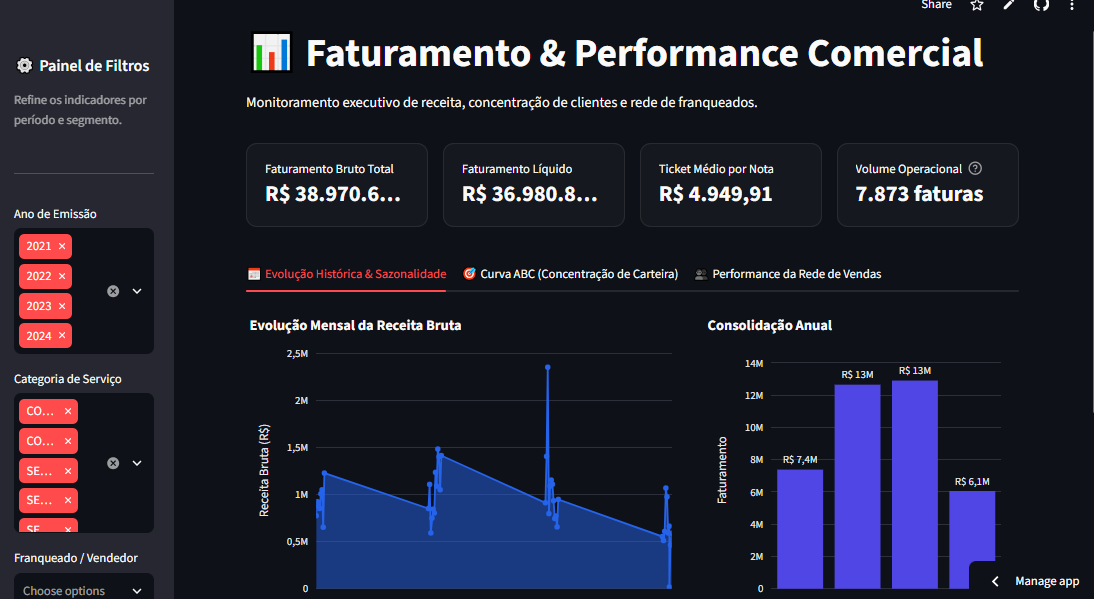
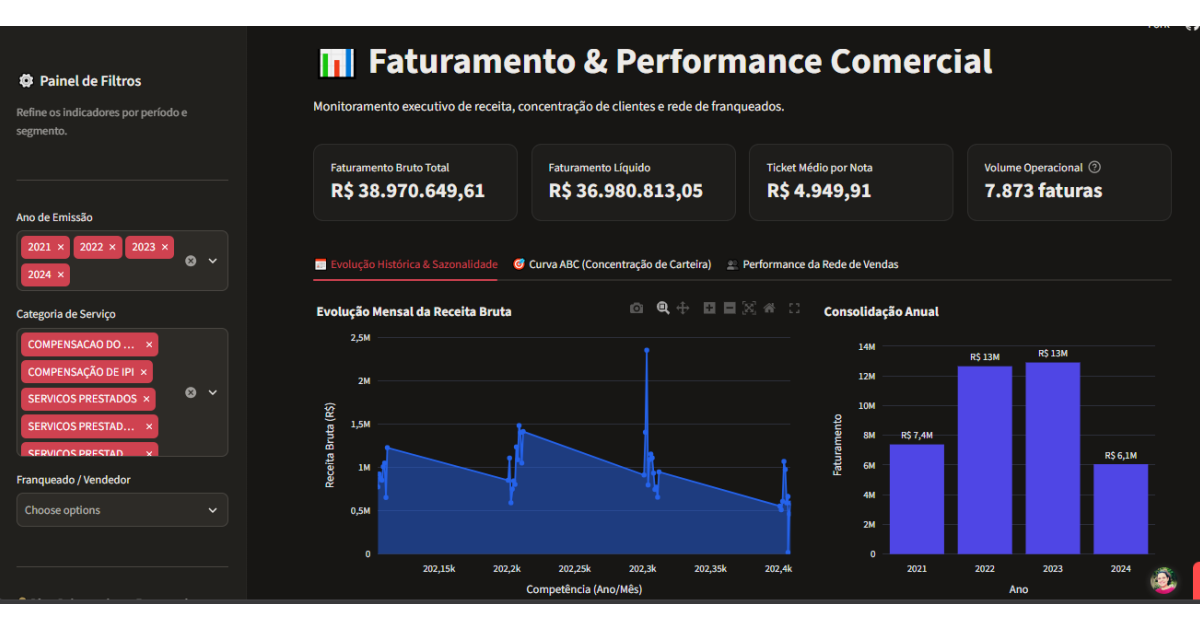
atualizando portfolio

diff --git a/script.js b/script.js
@@ -1,37 +1,38 @@
 /* EDITE AQUI: troque links, textos, tecnologias e imagens dos projetos. */
 const projects = [
   {
-    title: "Sem Papas — Web Chat com Grupos & Salas Temporárias",
-    category: "produtividade",
-    filtros: ["Dev Full Stack", "NoSQL Database"],
-    url: "https://sem-papas.web.app/",
+    title: "Redirecionador e Encurtador de Links & Event-Driven Data Lake",
+    category: "infraestrutura",
+    filtros: ["Dev Full Stack", "Engenharia de Dados", "NoSQL Database"],
+    url: "https://redirecionador-fdet.onrender.com?utm_source=portfolio&utm_medium=pagina-web",
     description: [
-      "• Chat temporário em grupo acessado via QR Code ou link direto, com capacidade para até 25 participantes, sem necessidade de login e sem armazenamento em histórico.",
-      "• Criação de salas privadas permanentes com até 6 participantes. Mensagens ficam salvas por seis meses no banco de dados. É necessário estar logado.",
-      "• Autenticação com Google e E-mail/Senha e regras de segurança no Cloud Firestore.",
-      "• Exclusão de contas inativas há mais de 30 dias, executada via GitHub Actions.",
+      "Microserviço backend em TypeScript e Node.js/Express para redirecionamento inteligente de links com injeção dinâmica de metadados Open Graph (1200x630px) para robôs do LinkedIn e WhatsApp.",
+      "Arquitetura de Ingestão de Dados Orientada a Eventos: separação automática entre tráfego humano e crawlers, capturando parâmetros UTM, IP, Referer e User-Agent sem impacto na latência do usuário (non-blocking I/O).",
+      "Data Lake Serverless: envio assíncrono dos eventos em tempo real para o Supabase Storage estruturado com particionamento temporal Hive Partitioning (raw/ano=YYYY/mes=MM/dia=DD/).",
+      "DevOps & FinOps: hospedagem no Render.com integrada a robô keep-alive no cron-job.org para disponibilidade 24/7 sem custos de infraestrutura.",
     ],
     tech: [
-      "Firebase",
-      "React 19",
       "TypeScript",
-      "Tailwind CSS",
-      "Google Cloud Platform",
-      "Github Actions",
-      "QrCode",
-      "Vercel",
+      "Node.js",
+      "Express.js",
+      "Supabase Storage",
+      "Data Lake (Hive Partitioning)",
+      "render.com",
+      "cron-job.org",
     ],
-    image: "img/sem-papas.jpeg",
-    theme: "project-sun",
+    image: "img/redirecionador.png",
+    theme: "project-coral",
   },
   {
-    title: "Kambão — Kanban Colaborativo com envio de arquivos",
+    title: "GarimpaTrip — Inteligência Turística & Agregador de Viagens",
     category: "produtividade",
-    filtros: ["Dev Full Stack"],
-    url: "https://kambao.vercel.app/",
+    filtros: ["Dev Full Stack", "Engenharia de Dados"],
+    url: "https://redirecionador-fdet.onrender.com/garimpatrip?utm_source=site-portfolio&utm_medium=pagina-web",
     description: [
-      "Sistema de gestão de projetos e tarefas estilo Kanban focado em colaboração de equipes. Construído com Next.js 16 App Router e arquitetura de dados relacional no Supabase.",
-      "Kanban privado com login, grupos de até 4 participantes, convites, CRUD de tarefas, upload/download de anexos (com validação de tamanho/quantidade) e políticas RLS no banco. ",
+      "Plataforma responsiva desenvolvida com Next.js 16 (App Router), TypeScript e React 19, utilizando Server Components (SEO) e Client Components reativos.",
+      "Arquitetura BFF via Route Handlers (/api/*) para consumo assíncrono paralelo de 8+ APIs externas (voos, câmbio, clima) com controle de concorrência e middleware na borda (proxy.ts).",
+      "Banco relacional Supabase (PostgreSQL 15 com JSONB) com regras de Row Level Security (RLS), Stored Procedures (RPCs) e autenticação Google OAuth 2.0.",
+      "Pipeline de dados em Python/DuckDB orquestrado via GitHub Actions para processamento de séries temporais e carga no Google BigQuery.",
     ],
     tech: [
       "Next.js 16",
@@ -39,72 +40,135 @@ const projects = [
       "TypeScript",
       "Tailwind CSS",
       "Supabase (PostgreSQL)",
+      "Python",
+      "DuckDB",
+      "Google BigQuery",
+      "Github Actions",
       "Vercel",
     ],
-    image: "img/kambao.jpeg",
-    theme: "project-coral",
+    image: "img/garimpatrip.png",
+    theme: "project-sun",
+  },
+
+  {
+    title: "Sem Papas — Web Chat Realtime & Salas Efêmeras",
+    category: "produtividade",
+    filtros: ["Dev Full Stack", "NoSQL Database"],
+    url: "https://redirecionador-fdet.onrender.com/sem-papas?utm_source=site-portfolio&utm_medium=pagina-web",
+    description: [
+      "App de mensageria instantânea com React 19, TypeScript e Firebase Cloud Firestore NoSQL, com ouvintes bidirecionais em tempo real (onSnapshot).",
+      "Salas temporárias efêmeras (duração de 3h e até 25 usuários) via QR Code sem necessidade de login, e salas privadas permanentes com autenticação.",
+      "Segurança defensiva via Firebase Auth (verificação obrigatória de e-mail) e regras de permissão granulares no Firestore (Security Rules).",
+      "Automação serverless agendada via GitHub Actions + Node.js Admin SDK para expurgo e retenção efêmera de dados a custo zero.",
+    ],
+    tech: [
+      "React 19",
+      "TypeScript",
+      "Firebase (Firestore & Auth)",
+      "Tailwind CSS",
+      "Google Cloud Platform",
+      "Github Actions",
+      "QrCode",
+    ],
+    image: "img/sem-papas.png",
+    theme: "project-mint",
   },
   {
-    title: "Scrumbão — Gestão Ágil Didática & Scrum Master",
+    title: "Scrumbão — Gestão Ágil Scrum & Multi-Tenant",
     category: "Gestão de Projetos",
     filtros: ["Dev Full Stack", "Gestão de Projetos"],
-    url: "https://scrumbao.vercel.app/",
+    url: "https://redirecionador-fdet.onrender.com/scrumbao?utm_source=site-portfolio&utm_medium=pagina-web",
     description: [
-      "Live Demo Pedagógico de Scrum-Master com guia e demonstrativo interativo salvo em memória local sem necessidade de cadastro.",
-      "Criação de Scrums privados salvos na nuvem e convite seguro por e-mail e link direto para até 6 participantes.",
-      "Automação Serverless: Cron job diário via GitHub Actions para remoção automática de dados inativos.",
+      "Aplicação Full-Stack reativa (React 19 SPA, TypeScript, Vite) para governança e treinamento prático em metodologia Scrum/Kanban.",
+      "Demonstração pública interativa em memória local (sem cadastro) e workspaces privados com convites seguros por e-mail e link direto.",
+      "Banco de dados Supabase (PostgreSQL 15) com Row Level Security (RLS) para isolamento multi-tenant e Stored Procedures (RPCs) para validação de cotas.",
+      "Esteira DevOps com GitHub Actions (Cron Jobs) executando rotinas SQL diárias em nuvem para remoção de contas e workspaces inativos.",
     ],
     tech: [
       "React 19",
       "TypeScript",
       "Vite",
       "Tailwind CSS",
-      "Radix UI",
+      "Supabase (PostgreSQL, RLS, RPC)",
       "Github Actions",
-      "Supabase (PostgreSQL, Auth, RLS, RPC)",
       "Vercel",
     ],
-    image: "img/scrumbao.jpeg",
-    theme: "project-mint",
-  },
-  {
-    title: "DATA APP PYTHON — Painel de Faturamento",
-    category: "Business Intelligence",
-    filtros: ["Análise de Dados"],
-    url: "https://painel-faturamento-comercial.streamlit.app/",
-    description: [
-      "Análise Exploratória de Dados (EDA) aplicada a uma base operacional de grande volume, calculando KPIs em tempo real com gráficos dinâmicos em Plotly e exportação de relatórios.",
-    ],
-    tech: ["Python", "Pandas", "DuckDB", "Plotly", "Streamlit Cloud"],
-    image: "img/streamlit.PNG",
-    theme: "project-sun",
-  },
-  {
-    title: "PAINEL FINANCEIRO com Excel Online e OfficeScripts (TypeScript)",
-    category: "Business Intelligence",
-    filtros: ["Automação", "Análise de Dados"],
-    url: "https://senacspedu-my.sharepoint.com/:x:/g/personal/caroline_arocha5_senacsp_edu_br/IQD_vOKWRavxTrN2EDy_m-WeAVJrfiSkFM4WAcUav1yIWYA?rtime=-J_4QdIl30g",
-    description: [
-      "Modernização de fluxos de trabalho em planilha: transição de macros legadas em VBA para scripts modernos em TypeScript executáveis no Microsoft 365 Web.",
-      " Desenvolvimento de dashboard financeiro/operacional completo com filtros dinâmicos e controle de visão analítica",
-    ],
-    tech: ["Excel Web", "Office Scripts (TypeScript)", "Power Query", "VBA"],
-    image: "img/excelonline.PNG",
+    image: "img/scrumbao.png",
     theme: "project-coral",
   },
   {
-    title: "Joguinho de TETRIS clássico",
-    category: "games",
-    filtros: ["Game"],
-    url: "https://caroline-suhvary.github.io/tetris/",
+    title: "Kambão — Kanban Colaborativo & Supabase Storage",
+    category: "produtividade",
+    filtros: ["Dev Full Stack"],
+    url: "https://redirecionador-fdet.onrender.com/kambao?utm_source=site-portfolio&utm_medium=pagina-web",
     description: [
-      "← → movem a peça, ↓ acelera a queda, ↑ ou Espaço giram a peça",
-      "No celular, use os botões abaixo.",
-      "Feito com HTML, CSS responsivo e Javascript puro.",
+      "Sistema de gestão de fluxo de trabalho estilo Kanban colaborativo desenvolvido com Next.js 16 (App Router), TypeScript e React 19.",
+      "Quadros privados multi-tenant (até 4 participantes), CRUD completo de tarefas, gestão de membros e controle de permissões por grupo.",
+      "Upload e download seguro de anexos com gestão de mídias via Supabase Storage (validação de tamanho/quantidade).",
+      "Arquitetura de segurança nativa no banco PostgreSQL utilizando políticas rigorosas de Row Level Security (RLS).",
     ],
-    tech: ["html", "CSS", "Javascript"],
-    image: "img/tetris.PNG",
+    tech: [
+      "Next.js 16",
+      "React 19",
+      "TypeScript",
+      "Tailwind CSS",
+      "Supabase (PostgreSQL & Storage)",
+      "Vercel",
+    ],
+    image: "img/kambao.png",
+    theme: "project-sun",
+  },
+  {
+    title: "Grafana Cloud — Observabilidade & Dashboard-as-Code",
+    category: "monitoramento",
+    filtros: ["Engenharia de Dados", "DevOps / SRE"],
+    url: "https://redirecionador-fdet.onrender.com/grafana-monitoramento-sites?utm_source=site-portfolio&utm_medium=pagina-web",
+    description: [
+      "Painel de observabilidade declarativo via código (Dashboard-as-Code em JSON versionado) conectado ao Google BigQuery (Camada Gold).",
+      "Monitoramento de disponibilidade 24/7 (Synthetic Monitoring) com sondas regionais (São Paulo) para análise de SLA, Uptime e latência/ping HTTP.",
+      "Real User Monitoring (RUM via Grafana Faro) capturando Core Web Vitals, erros em runtime client-side e telemetria de navegação em tempo real.",
+      "Governança FinOps para controle estrito de consumo de cotas gratuitas de APIs e saúde da infraestrutura (Vercel, Supabase, GCP e GitHub Actions).",
+    ],
+    tech: [
+      "Grafana Cloud",
+      "Dashboard-as-Code (JSON)",
+      "Google BigQuery",
+      "Grafana Faro (RUM)",
+      "Synthetic Monitoring",
+      "FinOps",
+      "Google Cloud Platform",
+    ],
+    image: "img/grafana.png",
     theme: "project-mint",
+  },
+  {
+    title: "Data App Python — Painel Analítico Comercial",
+    category: "Business Intelligence",
+    filtros: ["Análise de Dados", "Engenharia de Dados"],
+    url: "https://redirecionador-fdet.onrender.com/python-streamlit-report1?utm_source=site-portfolio&utm_medium=pagina-web",
+    description: [
+      "Análise Exploratória de Dados (EDA) e cálculo de KPIs comerciais em tempo real sobre volumosas bases operacionais.",
+      "Processamento analítico em alta velocidade utilizando Python e DuckDB como motor OLAP em memória.",
+      "Visualizações gráficas dinâmicas com Plotly e exportação parametrizada de relatórios.",
+      "Deploy serverless de aplicação de dados interativa via Streamlit Cloud.",
+    ],
+    tech: ["Python", "Pandas", "DuckDB", "Plotly", "Streamlit Cloud"],
+    image: "img/streamlit.PNG",
+    theme: "project-coral",
+  },
+  {
+    title: "Painel Financeiro — Excel Online & Office Scripts",
+    category: "Business Intelligence",
+    filtros: ["Automação", "Análise de Dados"],
+    url: "https://redirecionador-fdet.onrender.com/excel-relatorio1?utm_source=site-portfolio&utm_medium=pagina-web",
+    description: [
+      "Modernização de fluxos corporativos: migração de macros legadas em VBA para Office Scripts em TypeScript executáveis na Web.",
+      "Desenvolvimento de dashboard financeiro/operacional completo na suíte Microsoft 365 Web com Power Query e filtros dinâmicos.",
+      "Automação de rotinas de consolidação de dados e geração de visão analítica gerencial.",
+    ],
+    tech: ["Excel Web", "Office Scripts (TypeScript)", "Power Query", "VBA"],
+    image: "img/excel.PNG",
+    theme: "project-sun",
   },
 ];
 // \\\\\\\\\\\\\\\\\\\\\\\\\\\\\\\\\\\\\\\\\\\\\\\\\\\\\\\\\\\\\\\\\\\\\\\
@@ -300,6 +364,38 @@ const skills = [
       "Autenticação e Gestão de Identidade (Firebase Auth)",
       "Banco de Dados Não-Relacional (Cloud Firestore)",
     ],
+    certificates: [],
+    info_extra: "",
+  },
+  {
+    name: "Node.Js",
+    image: "img/logos/node-js-logo.png",
+    level: "Praticando",
+    description: [],
+    certificates: [],
+    info_extra: "",
+  },
+  {
+    name: "Express.Js",
+    image: "img/logos/express-js-logo.png",
+    level: "Praticando",
+    description: [],
+    certificates: [],
+    info_extra: "",
+  },
+  {
+    name: "Grafana",
+    image: "img/logos/grafana-logo.png",
+    level: "Praticando",
+    description: [],
+    certificates: [],
+    info_extra: "",
+  },
+  {
+    name: "Streamlit",
+    image: "img/logos/streamlit-logo.png",
+    level: "Praticando",
+    description: [],
     certificates: [],
     info_extra: "",
   },

diff --git a/styles.css b/styles.css
@@ -294,7 +294,7 @@ button {
 .project-preview {
   position: relative;
   display: grid;
-  min-height: 18.125rem /* 290px */;
+  /* min-height: 18.125rem 290px */
   place-items: center;
   overflow: hidden;
   border: 0.75rem /* 12px */ solid var(--card);
@@ -303,7 +303,7 @@ button {
 }
 .project-image-frame {
   width: 86%;
-  height: 18.75rem /* 300px */;
+  height: 10rem /* 160px */;
   display: grid;
   place-items: center;
   overflow: hidden;
